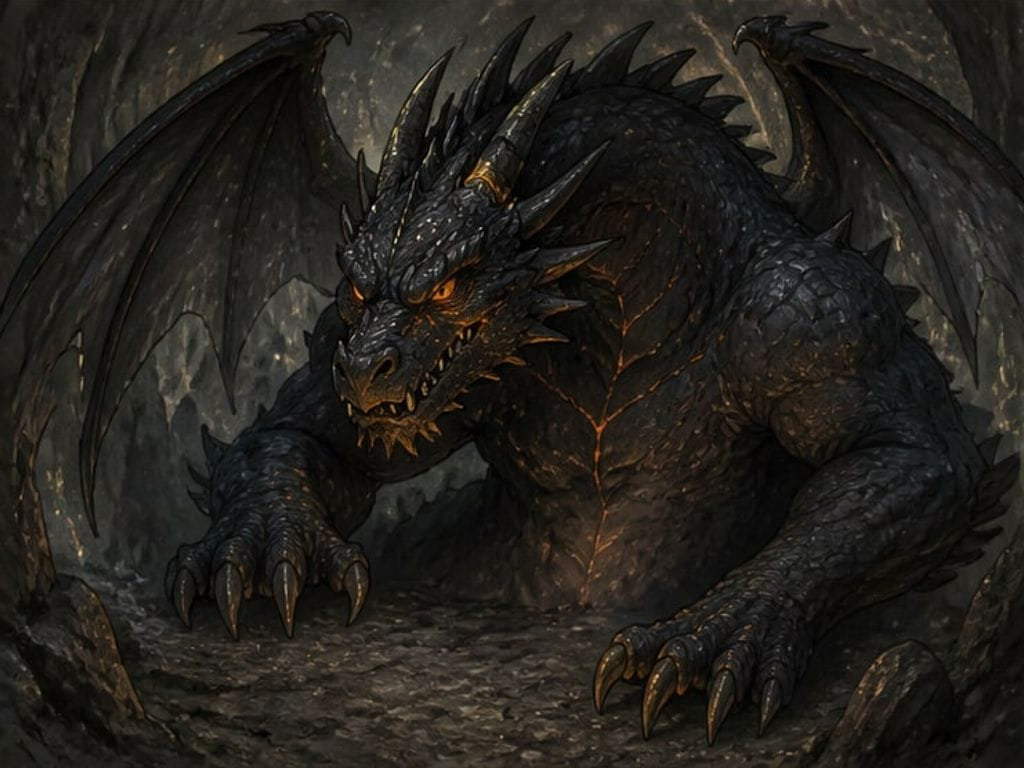
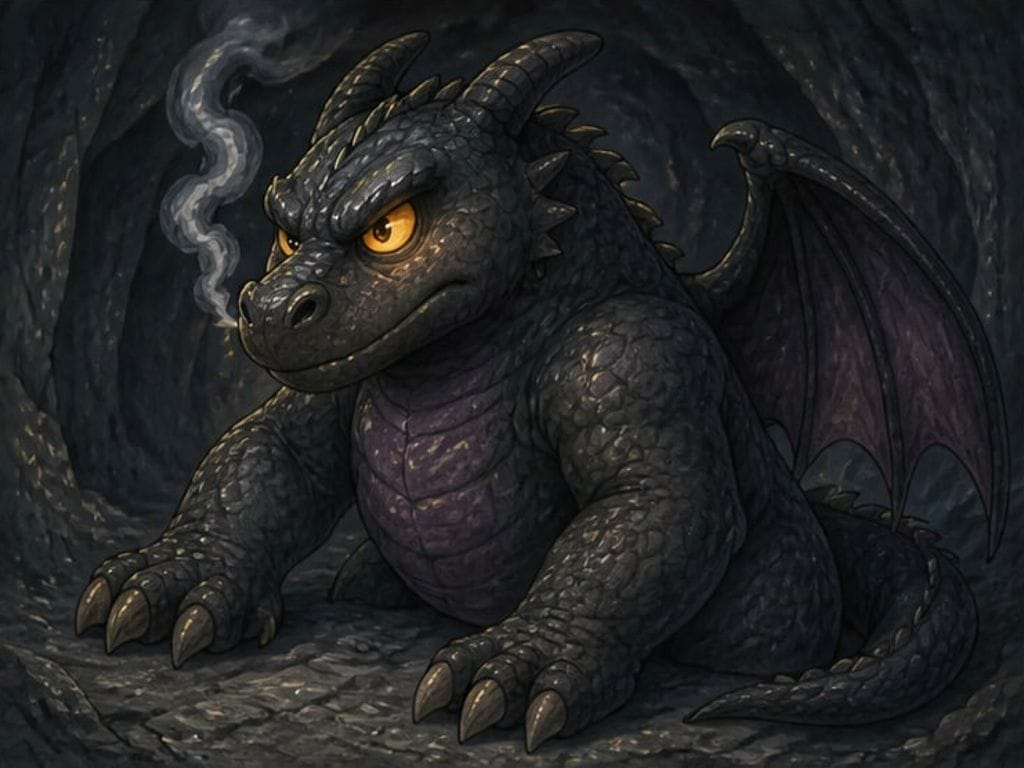
Softer black dragon: a character sheet and redrawn chapter 7 pages 10-12
The dragon had no sheet, so the board drew a realistic fanged monster out of the
book's style. He now has a sheet and a gentler look (grumpy villain, no fangs),
used only by chapters that name him. The dark pictures are kept in
content/pictures/toby-7-dark/.

Claude-Session: https://claude.ai/code/session_01HPXj2aZicdAuaRBwWuUYwW

diff --git a/docs/illustration.md b/docs/illustration.md
@@ -106,9 +106,23 @@ node tools/push.mjs --images
 | julia | 6, curly brown hair in two puffs, freckles, yellow t-shirt, blue denim dungarees, red sneakers | candidate 2 |
 | toby | small young dragon (big-dog size), pure white scales shimmering with tiny pink, green and blue sparkles, round friendly face, big dark eyes, small wings, soft rounded spikes, long tail | candidate 2 |
 | playhouse | small plastic playhouse, pink walls, window and door, green roof | candidate 2 (object) |
+| blackdragon | big round grumpy storybook villain: charcoal scales with a purple sheen, short blunt horns, amber eyes, mouth closed, no fangs | candidate 3 (Oct 20) |
 
 Julia's look is ours, not Tom's; he can change it (edit `look`, redraw her sheet, then redraw the pages she's in).
 All candidates are kept in `candidates/` so a different pick is just a copy.
+
+### The black dragon (Oct 20)
+
+At first the black dragon had no sheet, only a description ("menacing and frightening, nothing cute"), and chapter 7
+drew him as a realistic dark-fantasy monster with fangs, out of the book's style. Yara liked him, but he was too much
+for most kids. Now he has a sheet (`blackdragon.jpg`) and a softer `look`: a grumpy, brooding villain, ominous but
+never frightening to a five-year-old. Chapter 7 pages 10-12 are panels 14-16 of edit 2 (`boards/toby-7.2.jpg`).
+**The dark pictures are kept in `content/pictures/toby-7-dark/`** (10-12.jpg; the original board is unchanged) in case
+we want them back for Yara.
+
+His cast entry has `sheetWhenNamed: true`: his sheet goes into a board or edit only when the chapter's text names him
+(a match word), since a sheet for a character the chapter doesn't have gets drawn into it anyway.
+When drawing chapter 8, pass `toby-7.2` as a reference board rather than `toby-7`, so the old dragon doesn't come back.
 
 ## The per-page method (for one-off redraws)
 
